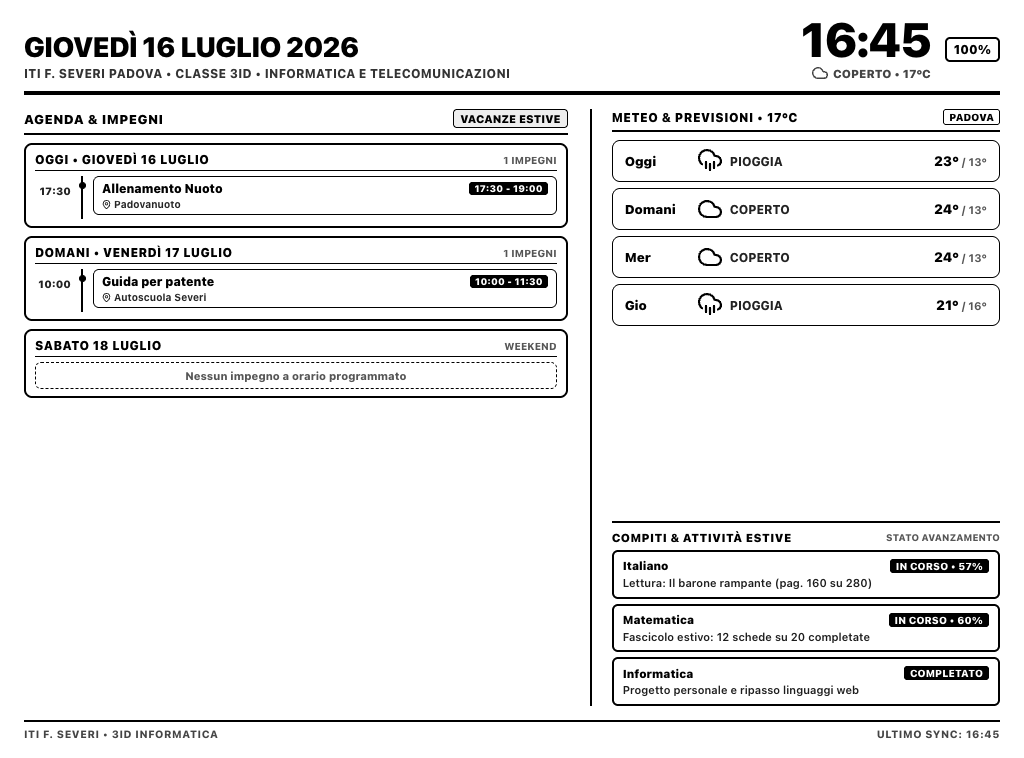
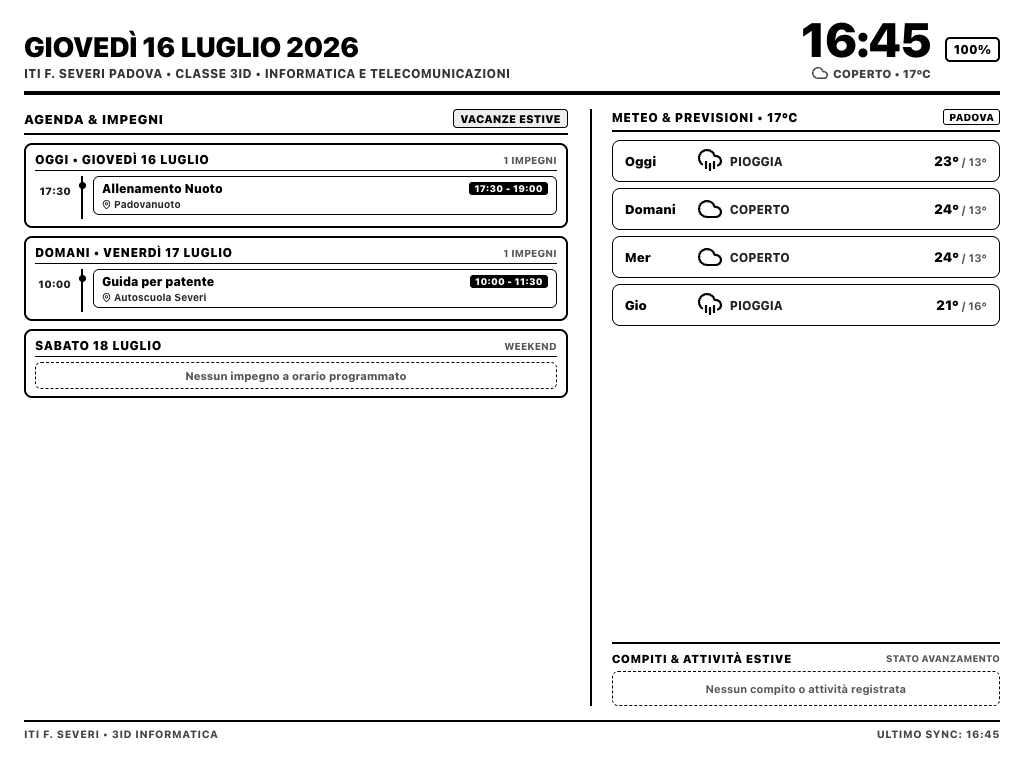
chore: clear pre-filled holiday tasks and keep table empty for user input
- Truncate holiday_tasks in PostgreSQL and empty data/compiti_vacanze.json
- Keep holiday intervals, bridges, and timetable config in database
- Render clean dashed empty state when no holiday tasks are registered
- Update tests and refresh production mockups

Changed region(s): [[0.5938, 0.6979, 1.0, 0.9406], [0.8438, 0.6979, 0.9688, 0.7586]]

diff --git a/server.py b/server.py
@@ -194,22 +194,6 @@ def get_holiday_tasks(holiday_type, target_d_obj, env):
         except Exception as e:
             print("Errore lettura compiti_vacanze.json:", e)
 
-    # Durante l'anno scolastico (winter, carnival, easter), se mancano voci manuali,
-    # integra i compiti futuri da ClasseViva
-    if holiday_type in ["winter", "carnival", "easter"] and len(tasks) == 0:
-        try:
-            cv_items = get_classeviva_agenda(env)
-            if cv_items:
-                for it in cv_items:
-                    tasks.append({
-                        "materia": it.get("materia", ""),
-                        "descrizione": it.get("descrizione", ""),
-                        "stato": it.get("data", ""),
-                        "is_test": it.get("is_test", False)
-                    })
-        except Exception:
-            pass
-
     return tasks
 
 def get_school_day_info(target_d):
@@ -1495,7 +1479,8 @@ def build_dashboard_html(query_params):
                 </div>
                 '''
         else:
-            compiti_items = '<div style="border:1.5px dashed #000;border-radius:6px;padding:10px;text-align:center;font-size:11px;font-weight:700;color:#555;">Nessun compito registrato per il rientro</div>'
+            empty_compiti_msg = "Nessun compito o attività registrata" if holiday_type == "summer" else "Nessun compito registrato per il rientro"
+            compiti_items = f'<div style="border:1.5px dashed #000;border-radius:6px;padding:10px;text-align:center;font-size:11px;font-weight:700;color:#555;">{empty_compiti_msg}</div>'
     else:
         compiti_header_title = "COMPITI & PROMEMORIA"
         compiti_header_badge = "SYNC LIVE"

diff --git a/tests/test_db.py b/tests/test_db.py
@@ -48,7 +48,7 @@ class TestPostgreSQLIntegration(unittest.TestCase):
             self.skipTest("PostgreSQL non raggiungibile")
         tasks = db.get_holiday_tasks_db("summer")
         self.assertIsNotNone(tasks)
-        self.assertGreater(len(tasks), 0)
+        self.assertEqual(len(tasks), 0)
 
         # Inserimento compito di test
         t_id = db.add_holiday_task(
